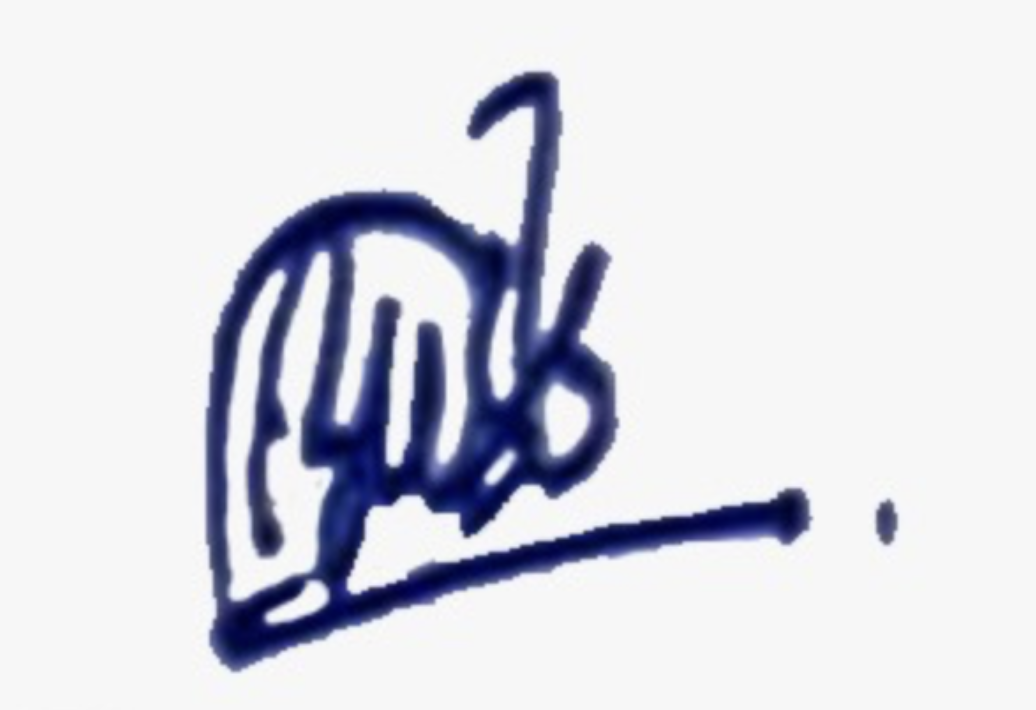
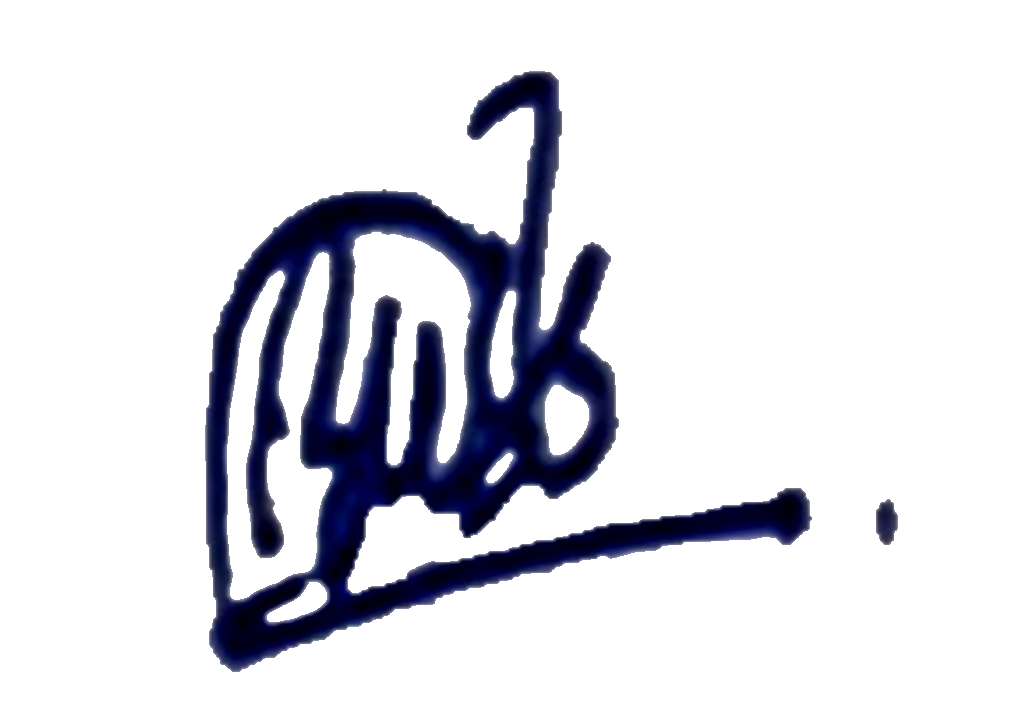
refactor: migrate PDF generation to html2canvas and implement QR code background processing

Changed region(s): [[0.1853, 0.093, 0.8031, 0.9606], [0.834, 0.6817, 0.8649, 0.7746]]

diff --git a/client/src/pages/OriginalReceiptView.jsx b/client/src/pages/OriginalReceiptView.jsx
@@ -2,6 +2,9 @@ import { useEffect, useState } from 'react';
 import { useParams } from 'react-router-dom';
 import axios from 'axios';
 import ReceiptCard from '../components/ReceiptCard';
+import { toPng } from 'html-to-image';
+import { jsPDF } from 'jspdf';
+import { useRef } from 'react';
 
 const API_URL = import.meta.env.VITE_API_URL || 'http://localhost:5001';
 
@@ -10,6 +13,41 @@ export default function OriginalReceiptView() {
   const [receipt, setReceipt] = useState(null);
   const [loading, setLoading] = useState(true);
   const [error, setError] = useState('');
+  const [blackQr, setBlackQr] = useState(null);
+  const receiptRef = useRef(null);
+  const [downloading, setDownloading] = useState(false);
+
+  const handleDownload = async () => {
+    if (!receiptRef.current) return;
+    setDownloading(true);
+    try {
+      const element = receiptRef.current.querySelector('.receipt-card');
+      if (!element) throw new Error('Receipt element not found');
+      
+      const imgData = await toPng(element, { 
+        quality: 1, 
+        pixelRatio: 3, 
+        style: { backgroundColor: '#ffffff' }
+      });
+      
+      const width = element.offsetWidth;
+      const height = element.offsetHeight;
+      
+      const pdf = new jsPDF({
+        orientation: width > height ? 'l' : 'p',
+        unit: 'px',
+        format: [width, height]
+      });
+      
+      pdf.addImage(imgData, 'PNG', 0, 0, width, height);
+      pdf.save(`PCMC_Official_Bill_${receipt.billNumber}.pdf`);
+    } catch (err) {
+      console.error('Error generating PDF:', err);
+      alert('Failed to generate PDF. Please try again.');
+    } finally {
+      setDownloading(false);
+    }
+  };
 
   useEffect(() => {
     document.title = `Official Receipt | ${receiptId}`;
@@ -19,6 +57,29 @@ export default function OriginalReceiptView() {
       try {
         const res = await axios.get(`${API_URL}/api/receipt/${receiptId}`);
         setReceipt(res.data.receipt);
+        
+        // Convert QR to black if it exists
+        if (res.data.receipt?.qrCodeDataURL) {
+          const img = new Image();
+          img.crossOrigin = "Anonymous";
+          img.onload = () => {
+            const canvas = document.createElement('canvas');
+            canvas.width = img.width;
+            canvas.height = img.height;
+            const ctx = canvas.getContext('2d');
+            ctx.drawImage(img, 0, 0);
+            const imageData = ctx.getImageData(0, 0, canvas.width, canvas.height);
+            const data = imageData.data;
+            for (let i = 0; i < data.length; i += 4) {
+              if (data[i] < 200 || data[i+1] < 200 || data[i+2] < 200) {
+                 data[i] = 0; data[i+1] = 0; data[i+2] = 0;
+              }
+            }
+            ctx.putImageData(imageData, 0, 0);
+            setBlackQr(canvas.toDataURL('image/png'));
+          };
+          img.src = res.data.receipt.qrCodeDataURL;
+        }
       } catch (err) {
         setError(err.response?.data?.error || 'Receipt not found or server error');
       } finally {
@@ -52,13 +113,20 @@ export default function OriginalReceiptView() {
       <div className="mb-4">
         <button 
           onClick={() => window.print()} 
-          className="bg-blue-600 text-white px-6 py-2 rounded font-bold shadow-md print:hidden"
+          className="bg-blue-600 text-white px-6 py-2 rounded font-bold shadow-md print:hidden mr-4"
         >
-          Print Receipt
+          Print (Browser)
+        </button>
+        <button 
+          onClick={handleDownload}
+          disabled={downloading}
+          className="bg-green-600 text-white px-6 py-2 rounded font-bold shadow-md print:hidden disabled:bg-green-400"
+        >
+          {downloading ? 'Generating...' : 'Download PDF'}
         </button>
       </div>
-      <div className="bg-white shadow-xl overflow-x-auto w-full max-w-[210mm]">
-        <ReceiptCard receipt={receipt} qrDataURL={receipt.qrCodeDataURL} />
+      <div className="bg-white shadow-xl overflow-x-auto w-full max-w-[210mm]" ref={receiptRef}>
+        <ReceiptCard receipt={receipt} qrDataURL={blackQr || receipt.qrCodeDataURL} />
       </div>
     </div>
   );

diff --git a/client/src/components/ReceiptCard.jsx b/client/src/components/ReceiptCard.jsx
@@ -7,7 +7,7 @@ const ReceiptCard = forwardRef(({ receipt, qrDataURL }, ref) => {
   const primaryBlue = '#1e3a8a'; // Dark blue for headers and lines
   const textBlue = '#1e3a8a'; // Dark blue for general text
   const alertRed = '#c23b3b'; // Red for instructions
-  const signatureBlue = '#4a6eb0'; // Original medium blue for the signature
+  const signatureBlue = '#4066abff'; // Original medium blue for the signature
   const borderColor = '#1e3a8a'; // Black borders
 
   return (
@@ -18,8 +18,8 @@ const ReceiptCard = forwardRef(({ receipt, qrDataURL }, ref) => {
       style={{
         width: '210mm',
         minHeight: '297mm',
-        margin: 6,
-        padding: 20,
+        margin: 4,
+        padding: 12,
         fontFamily: "'Noto Sans Devanagari', sans-serif",
         color: '#000',
         lineHeight: '1.4',
@@ -37,7 +37,7 @@ const ReceiptCard = forwardRef(({ receipt, qrDataURL }, ref) => {
 
       <div className="relative" style={{ zIndex: 1 }}>
         {/* ── Official Header ── */}
-        <div className="flex items-center justify-center mb-2">
+        <div className="flex items-center justify-center mb-1">
           <div className="w-28 flex-shrink-0 mr-4">
             <img src="/logo.png" alt="PCMC Logo" className="w-full h-auto" />
           </div>
@@ -46,8 +46,8 @@ const ReceiptCard = forwardRef(({ receipt, qrDataURL }, ref) => {
             <h2 className="text-[18px] font-bold devanagari leading-snug">झोपडपट्टी निर्मूलन व पुनर्वसन विभाग</h2>
             <p className="text-[15px] font-bold devanagari leading-snug">एकत्रित सेवा शुल्क बील</p>
             <div className="text-[12px] devanagari leading-tight font-bold mt-1">
-              महाराष्ट्र शासन निर्णय क्र. गवसु/१२२०/प्र.क्र. २०४(१) झोपसु(१), दिनांक ११ जुलै २००१<br />
-              महाराष्ट्र शासन निर्णय क्र. गवसु/१२२०/प्र.क्र. ३६४(२) झोपसु(१), दिनांक ३ मे २००३
+              <span style={{ fontFamily: 'sans-serif' }}>महाराष्ट्र</span> शासन निर्णय क्र. गवसु/१२२०/प्र.क्र. २०४(१) झोपसु(१), दिनांक ११ जुलै २००१<br />
+              <span style={{ fontFamily: 'sans-serif' }}>महाराष्ट्र</span> शासन निर्णय क्र. गवसु/१२२०/प्र.क्र. ३६४(२) झोपसु(१), दिनांक ३ मे २००३
             </div>
           </div>
         </div>
@@ -55,7 +55,7 @@ const ReceiptCard = forwardRef(({ receipt, qrDataURL }, ref) => {
         <div className="border-t-2 border-dashed mb-2 mt-1" style={{ borderColor: borderColor }}></div>
 
         {/* ── Info Grid ── */}
-        <div className="flex justify-between text-[13px] mb-2 font-bold" style={{ color: textBlue }}>
+        <div className="flex justify-between text-[13px] mb-1 font-bold" style={{ color: textBlue }}>
           <div className="w-[55%] space-y-1">
             <div className="flex"><span className="w-48 devanagari">बील क्रमांक:</span> <span className="devanagari text-black">{receipt.billNumber}</span></div>
             <div className="flex"><span className="w-48 devanagari">झोपडपट्टीचे नाव:</span> <span className="devanagari text-black">{receipt.area || '—'}</span></div>
@@ -73,41 +73,41 @@ const ReceiptCard = forwardRef(({ receipt, qrDataURL }, ref) => {
           </div>
         </div>
 
-        <p className="text-[11px] devanagari mb-2 mt-1 leading-tight font-bold" style={{ color: alertRed }}>
+        <p className="text-[11px] devanagari mb-2 mt-3 leading-tight font-bold" style={{ color: alertRed }}>
           पिंपरी चिंचवड महानगरपालिकेच्या हद्दीत आपल्या वर नमूद केलेल्या झोपडीवरील एकत्रित सेवा शुल्काची खालीलप्रमाणे आपणास मागणी करण्यात येत आहे. या बीलात मागणी केलेली रक्कम, हे बील आपणास मिळाले पासून पंधरा दिवसाच्या आत महानगरपालिकेच्या झोपडपट्टी निर्मूलन व पुनर्वसन कार्यालयात रोख भरावी.
         </p>
 
         {/* ── Financial Table ── */}
-        <table className="w-full border-collapse border-2 text-[13px] mb-2 mt-1" style={{ borderColor: borderColor }}>
+        <table className="w-full border-collapse border text-[13px] mb-1 mt-0.5" style={{ borderColor: borderColor }}>
           <thead>
             <tr style={{ color: primaryBlue }}>
-              <th className="border-2 p-1 devanagari border-inherit font-bold text-center w-1/4">कराचे नाव</th>
-              <th className="border-2 p-1 devanagari border-inherit font-bold text-center w-1/4">मागील बाकी रक्कम रुपये</th>
-              <th className="border-2 p-1 devanagari border-inherit font-bold text-center w-1/4">चालू मागणी रक्कम रुपये</th>
-              <th className="border-2 p-1 devanagari border-inherit font-bold text-center w-1/4">एकूण मागणी रक्कम रुपये</th>
+              <th className="border py-1 px-1 align-middle devanagari border-inherit font-semibold text-center w-1/4">कराचे नाव</th>
+              <th className="border py-1 px-1 align-middle devanagari border-inherit font-semibold text-center w-1/4">मागील बाकी रक्कम रुपये</th>
+              <th className="border py-1 px-1 align-middle devanagari border-inherit font-semibold text-center w-1/4">चालू मागणी रक्कम रुपये</th>
+              <th className="border py-1 px-1 align-middle devanagari border-inherit font-semibold text-center w-1/4">एकूण मागणी रक्कम रुपये</th>
             </tr>
           </thead>
           <tbody>
-            <tr className="text-center font-bold text-black">
-              <td className="border-2 p-1 devanagari text-left border-inherit" style={{ color: primaryBlue, borderColor: borderColor }}>एकत्रित सेवा शुल्क</td>
-              <td className="border-2 p-1 border-inherit text-black">{receipt.pendingAmount || '500'}</td>
-              <td className="border-2 p-1 border-inherit text-black">{receipt.currentDemand || '300'}</td>
-              <td className="border-2 p-1 border-inherit text-black">{receipt.totalAmount || '800'}</td>
+            <tr className="text-center font-medium text-black" style={{ borderColor: borderColor }}>
+              <td className="border py-1 px-1 align-middle devanagari text-left border-inherit font-semibold" style={{ color: primaryBlue }}>एकत्रित सेवा शुल्क</td>
+              <td className="border py-1 px-1 align-middle border-inherit text-black">{receipt.pendingAmount || '500'}</td>
+              <td className="border py-1 px-1 align-middle border-inherit text-black">{receipt.currentDemand || '300'}</td>
+              <td className="border py-1 px-1 align-middle border-inherit text-black">{receipt.totalAmount || '800'}</td>
             </tr>
-            <tr className="text-center text-black font-bold">
-              <td className="border-2 p-1 devanagari text-left border-inherit" style={{ color: primaryBlue, borderColor: borderColor }}>एकूण</td>
-              <td className="border-2 p-1 border-inherit text-black">{receipt.pendingAmount || '500'}</td>
-              <td className="border-2 p-1 border-inherit text-black">{receipt.currentDemand || '300'}</td>
-              <td className="border-2 p-1 border-inherit text-black">{receipt.totalAmount || '800'}</td>
+            <tr className="text-center text-black font-semibold" style={{ borderColor: borderColor }} >
+              <td className="border py-1 px-1 align-middle devanagari text-left border-inherit" style={{ color: primaryBlue }}>एकूण</td>
+              <td className="border py-1 px-1 align-middle border-inherit text-black">{receipt.pendingAmount || '500'}</td>
+              <td className="border py-1 px-1 align-middle border-inherit text-black">{receipt.currentDemand || '300'}</td>
+              <td className="border py-1 px-1 align-middle border-inherit text-black">{receipt.totalAmount || '800'}</td>
             </tr>
           </tbody>
         </table>
 
         {/* ── Signature Section ── */}
-        <div className="flex justify-end mb-0 px-4">
+        <div className="flex justify-end mb-0 px-4 mt-2 mb-1">
           <div className="text-center relative">
-            <div className="relative z-10 p-2" style={{ color: signatureBlue }}>
-              <img src="/signature.png" alt="Signature" className="h-16 mx-auto mb-1 opacity-90 mix-blend-multiply" />
+            <div className="relative z-10 p-0" style={{ color: signatureBlue }}>
+              <img src="/signature.png" alt="Signature" className="h-16 mx-auto mb-0.5 opacity-90" />
               <p className="text-[10px] font-bold devanagari leading-tight">
                 सक्षम प्राधिकरण संस्था सहा. आयुक्त<br />
                 झोपडपट्टी निर्मूलन व पुनर्वसन विभाग<br />
@@ -139,7 +139,7 @@ const ReceiptCard = forwardRef(({ receipt, qrDataURL }, ref) => {
         <div className="border-t-2 border-dashed mb-2" style={{ borderColor: borderColor }}></div>
 
         {/* ── Footer / QR ── */}
-        <div className="text-[13px] devanagari text-center font-bold mb-4" style={{ color: primaryBlue }}>
+        <div className="text-[13px] devanagari text-center font-bold" style={{ color: primaryBlue }}>
           <p className="leading-relaxed">
             बीलातील झोपडी क्षेत्रापेक्षा वाढीव क्षेत्र आढळून आल्यास त्याप्रमाणे वाढीव<br />
             क्षेत्राची एकत्रित सेवा शुल्क आकारणी व वसुली करण्यात येईल.
@@ -159,8 +159,8 @@ const ReceiptCard = forwardRef(({ receipt, qrDataURL }, ref) => {
               <img
                 src={qrDataURL}
                 alt="QR Code"
-                className="w-36 h-36 border-4 border-white shadow-sm"
-                style={{ filter: 'grayscale(100%) contrast(200%)', objectFit: 'contain' }}
+                className="w-36 h-36 border border-white shadow-sm"
+                style={{ objectFit: 'contain' }}
               />
             )}
           </div>

diff --git a/client/src/pages/AdminDashboard.jsx b/client/src/pages/AdminDashboard.jsx
@@ -54,21 +54,23 @@ export default function AdminDashboard() {
     if (printingReceipt && hiddenReceiptRef.current) {
       setTimeout(async () => {
         try {
-          const imgData = await toPng(hiddenReceiptRef.current, {
-            pixelRatio: 3,
-            backgroundColor: '#ffffff',
-            style: { transform: 'none' }
+          const imgData = await toPng(hiddenReceiptRef.current, { 
+            quality: 1, 
+            pixelRatio: 3, 
+            style: { backgroundColor: '#ffffff' }
           });
           
           const element = hiddenReceiptRef.current;
           const width = element.offsetWidth;
           const height = element.offsetHeight;
           
-          const pdf = new jsPDF('p', 'mm', 'a4');
-          const pdfWidth = pdf.internal.pageSize.getWidth();
-          const pdfHeight = (height * pdfWidth) / width;
+          const pdf = new jsPDF({
+            orientation: width > height ? 'l' : 'p',
+            unit: 'px',
+            format: [width, height]
+          });
           
-          pdf.addImage(imgData, 'PNG', 0, 0, pdfWidth, pdfHeight);
+          pdf.addImage(imgData, 'PNG', 0, 0, width, height);
           pdf.save(`PCMC_Official_Bill_${printingReceipt.billNumber}.pdf`);
         } catch (err) {
           console.error('Error generating PDF:', err);
@@ -79,6 +81,34 @@ export default function AdminDashboard() {
       }, 500);
     }
   }, [printingReceipt]);
+
+  const handlePrint = (receipt) => {
+    if (!receipt.qrCodeDataURL) {
+      setPrintingReceipt(receipt);
+      return;
+    }
+    const img = new Image();
+    img.crossOrigin = "Anonymous";
+    img.onload = () => {
+      const canvas = document.createElement('canvas');
+      canvas.width = img.width;
+      canvas.height = img.height;
+      const ctx = canvas.getContext('2d');
+      ctx.drawImage(img, 0, 0);
+      const imageData = ctx.getImageData(0, 0, canvas.width, canvas.height);
+      const data = imageData.data;
+      for (let i = 0; i < data.length; i += 4) {
+        if (data[i] < 200 || data[i+1] < 200 || data[i+2] < 200) {
+           data[i] = 0;
+           data[i+1] = 0;
+           data[i+2] = 0;
+        }
+      }
+      ctx.putImageData(imageData, 0, 0);
+      setPrintingReceipt({ ...receipt, qrCodeDataURL: canvas.toDataURL('image/png') });
+    };
+    img.src = receipt.qrCodeDataURL;
+  };
 
   const [search, setSearch] = useState('');
   const filteredReceipts = receipts.filter(r =>
@@ -198,7 +228,7 @@ export default function AdminDashboard() {
                           QR
                         </button>
                         <button
-                          onClick={() => setPrintingReceipt(receipt)}
+                          onClick={() => handlePrint(receipt)}
                           className="px-4 py-2 bg-white text-slate-700 hover:bg-slate-50 transition-colors border border-slate-400 text-xs font-semibold"
                         >
                           Print